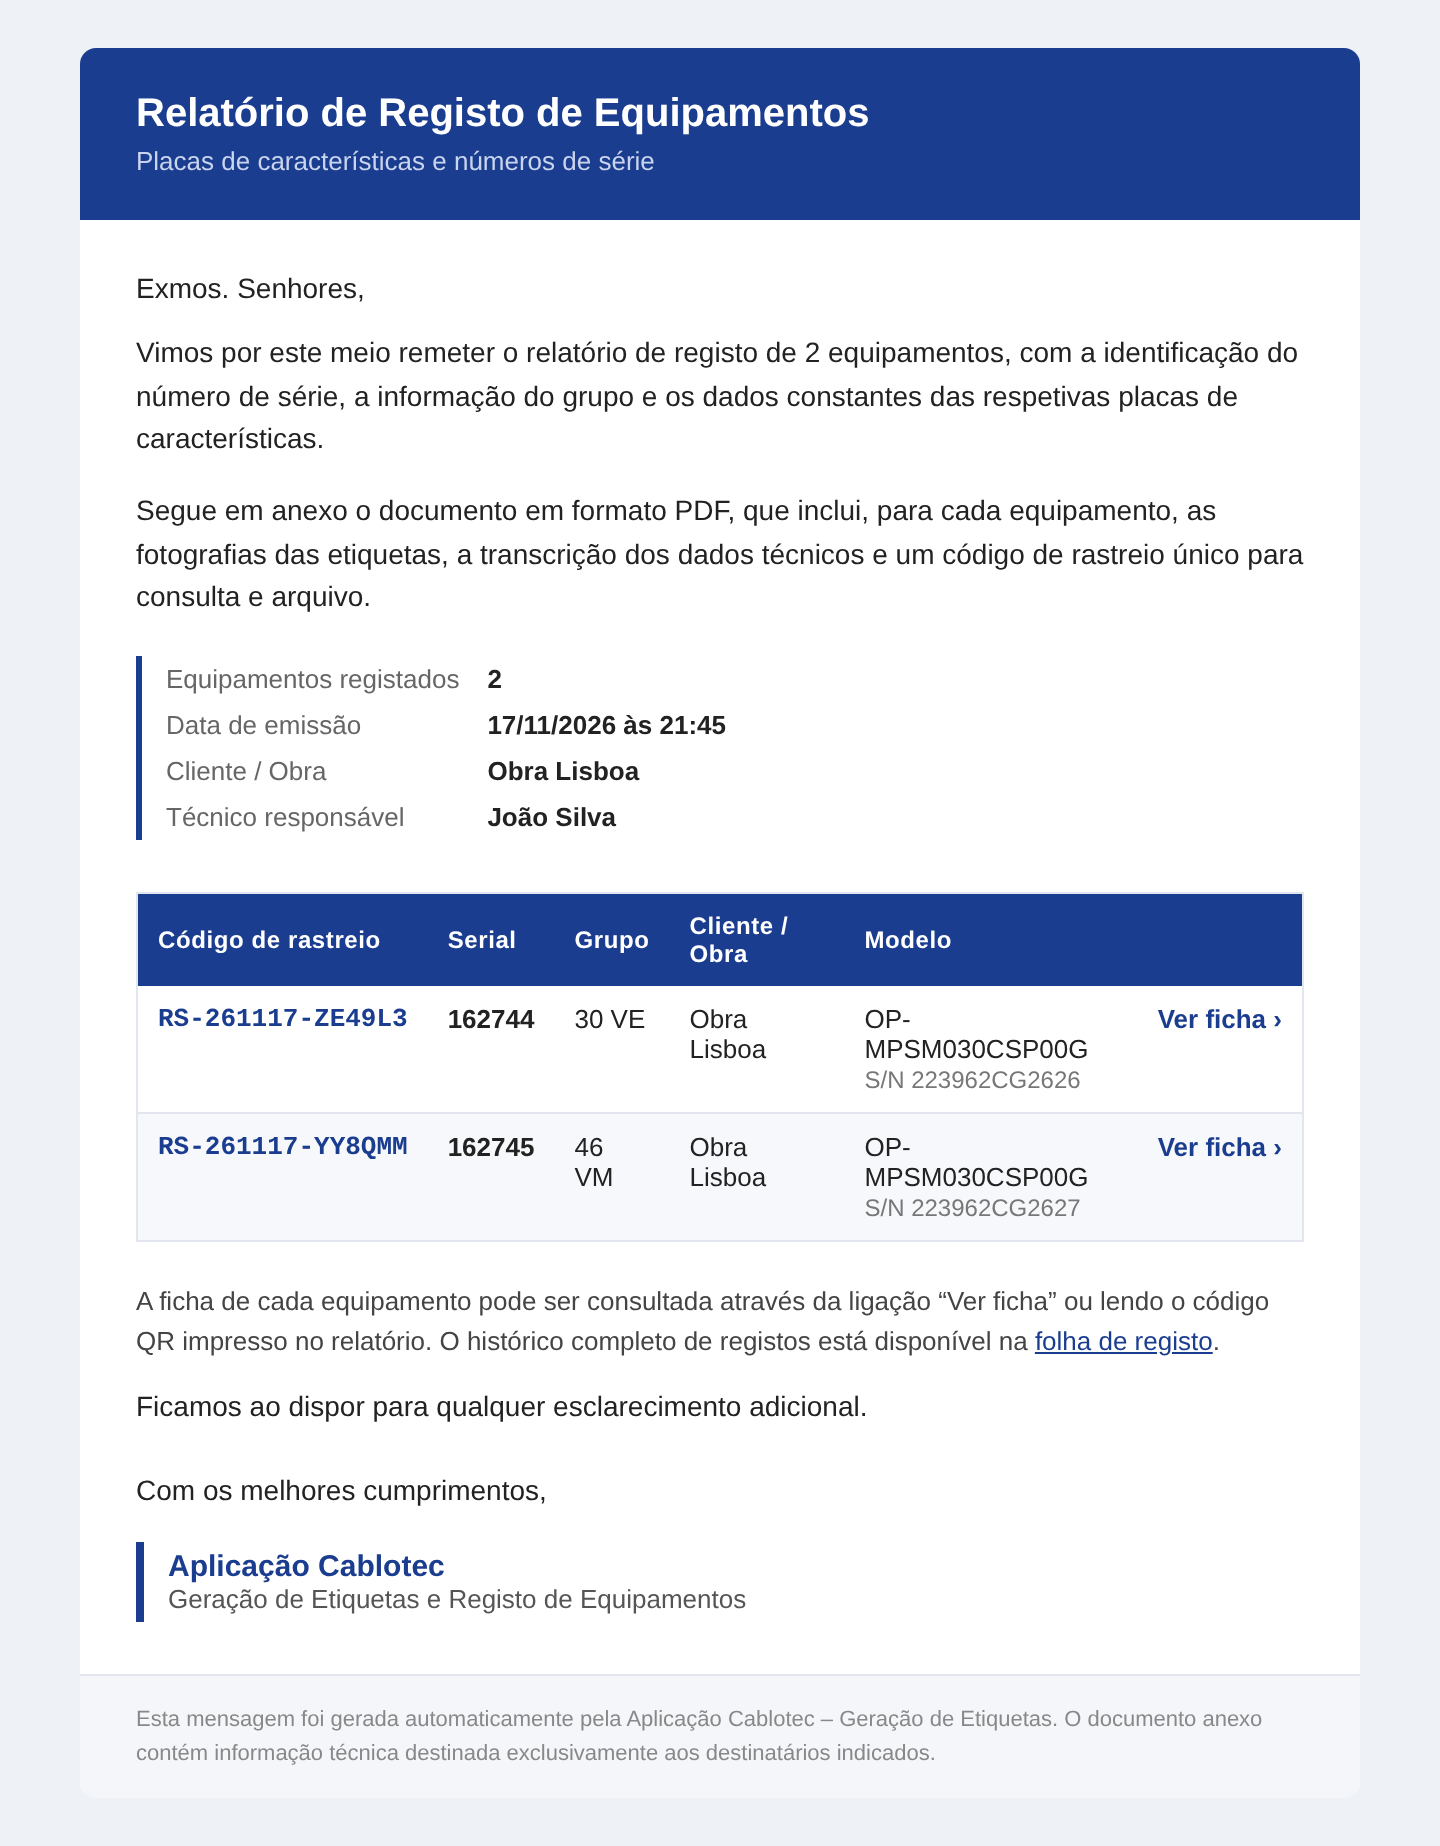
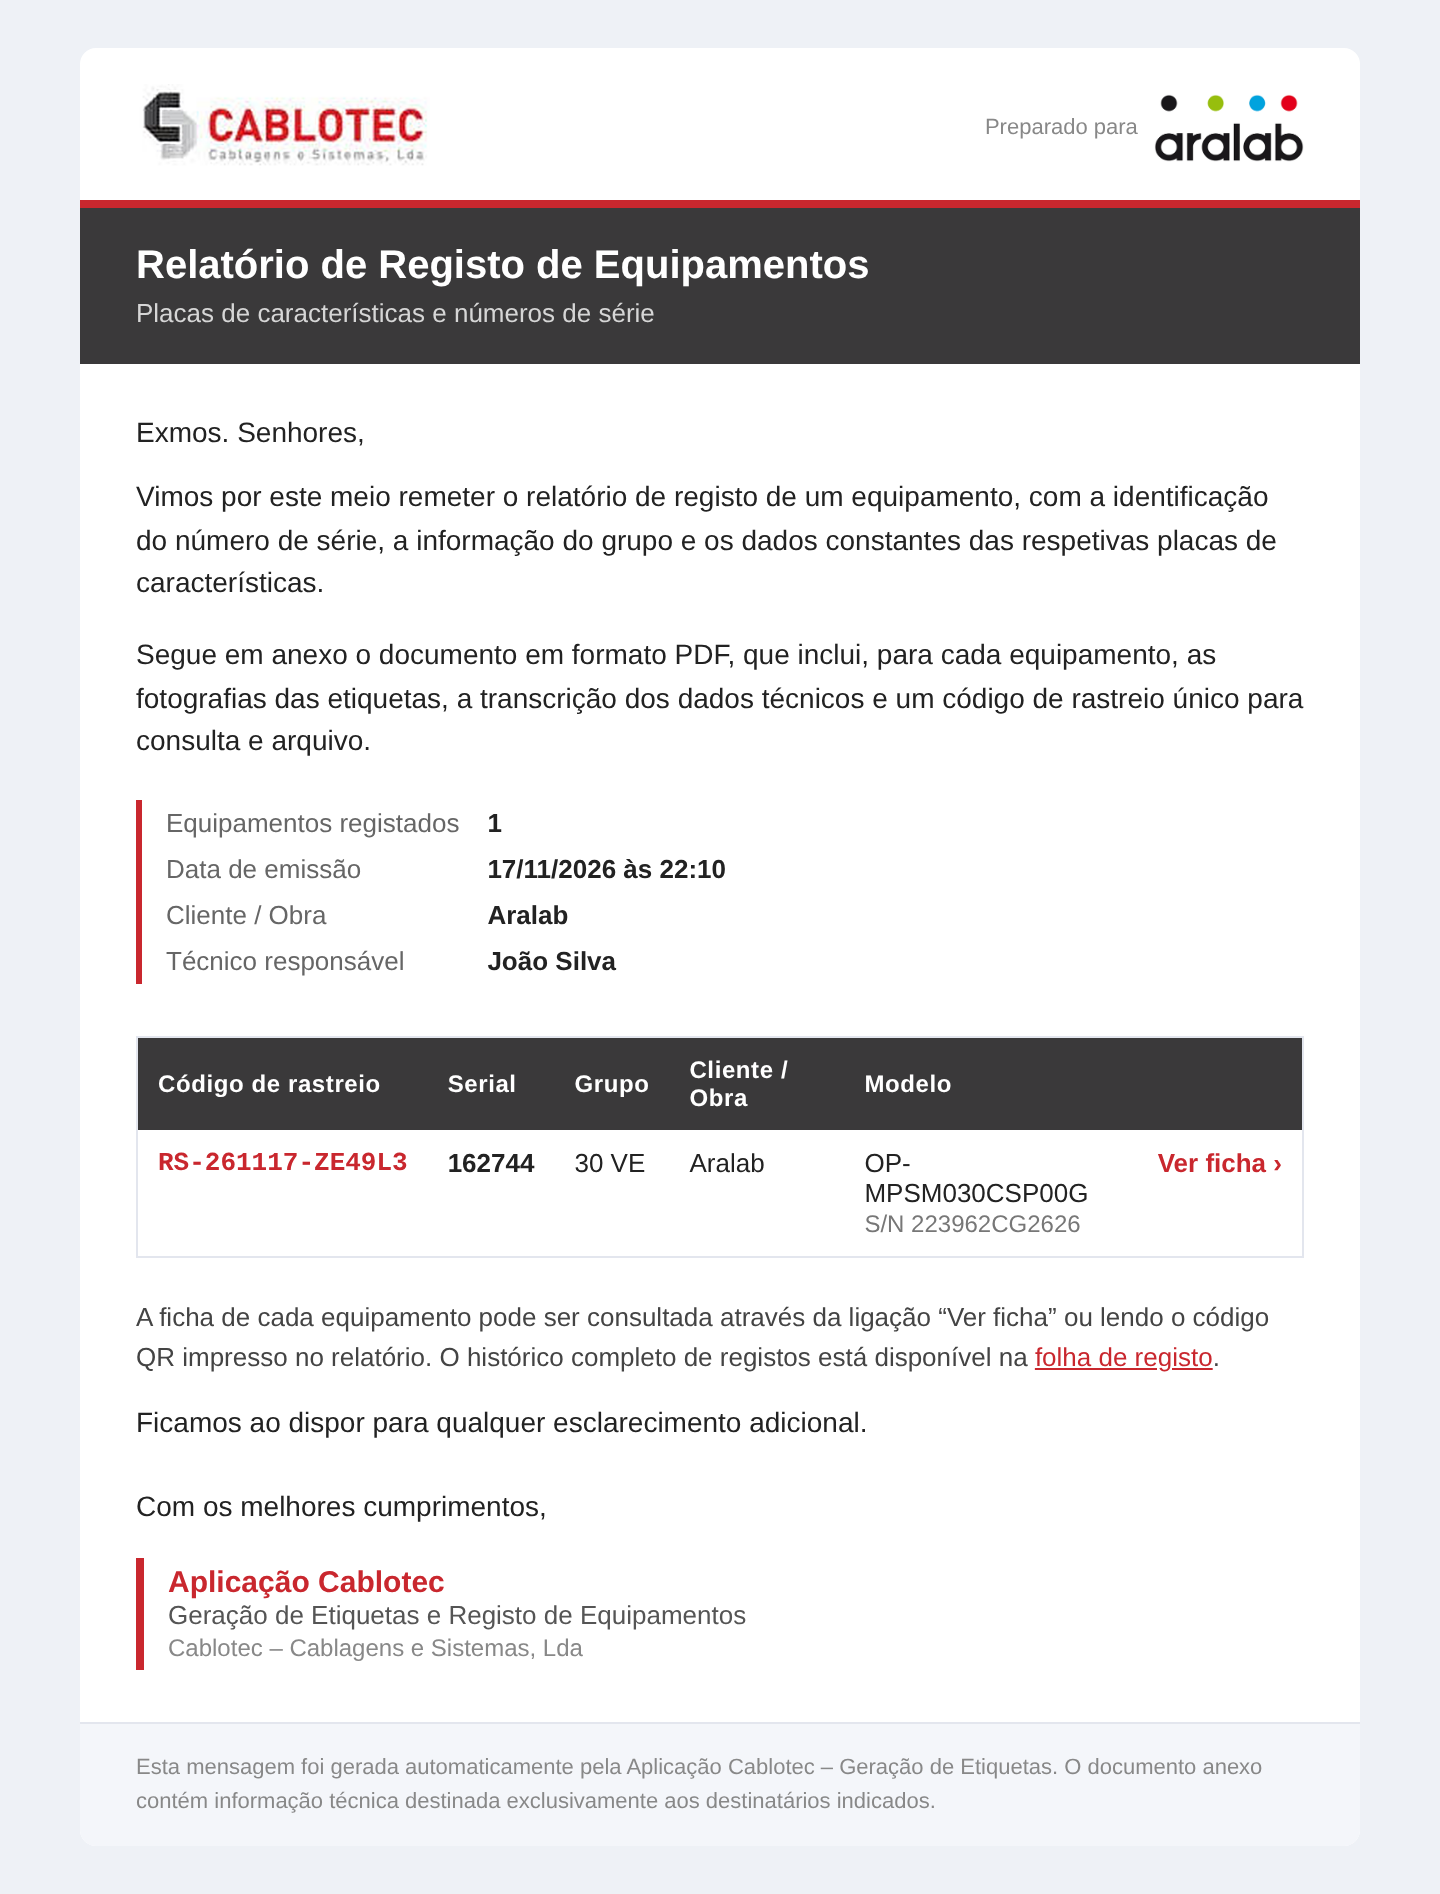
Logótipos Cablotec (emissor) e Aralab (cliente) e cores Cablotec
- PDF: cabeçalho com os dois logótipos nas duas folhas
- email: logótipos no topo ("Preparado para"), cores Cablotec
- ficha do QR, etiquetas QR e app com os logótipos
- app: cliente "Aralab" pré-preenchido; versão 1.3.0

Claude-Session: https://claude.ai/code/session_01V4AqBrqrWquzofq4eoL8LM

Changed region(s): [[0.0312, 0.0, 0.9688, 0.8954], [0.0938, 0.9263, 0.875, 0.9572]]

diff --git a/index.html b/index.html
@@ -3,7 +3,7 @@
 <head>
 <meta charset="utf-8">
 <meta name="viewport" content="width=device-width, initial-scale=1, viewport-fit=cover">
-<meta name="theme-color" content="#1a3d8f">
+<meta name="theme-color" content="#3a393a">
 <meta name="apple-mobile-web-app-capable" content="yes">
 <meta name="mobile-web-app-capable" content="yes">
 <meta name="apple-mobile-web-app-status-bar-style" content="black-translucent">
@@ -13,13 +13,13 @@
 <link rel="icon" href="icons/icon-192.png">
 <title>Registo de Seriais</title>
 <style>
-  :root { --azul:#1a3d8f; --fundo:#f1f3f6; --verde:#1b8a3a; --laranja:#d97706; --vermelho:#c62828; }
+  :root { --azul:#c9272e; --cinza:#3a393a; --fundo:#f1f3f6; --verde:#1b8a3a; --laranja:#d97706; --vermelho:#c62828; }
   * { box-sizing:border-box; -webkit-tap-highlight-color:transparent; }
   html,body { margin:0; }
   section { scroll-margin-bottom:90px; } .botao, input, .moldura { scroll-margin-bottom:90px; }
   body { font-family:-apple-system,Roboto,Arial,sans-serif; background:var(--fundo); color:#222;
          padding-bottom:calc(72px + env(safe-area-inset-bottom)); }
-  header { position:sticky; top:0; z-index:5; background:var(--azul); color:#fff;
+  header { position:sticky; top:0; z-index:5; background:var(--cinza); color:#fff; border-bottom:3px solid var(--azul);
            padding:calc(14px + env(safe-area-inset-top)) 16px 14px; font-size:18px; font-weight:600;
            display:flex; align-items:center; justify-content:space-between; }
   #rede { font-size:12px; font-weight:600; padding:4px 10px; border-radius:20px; background:rgba(255,255,255,.18); }
@@ -104,12 +104,17 @@
   #scanner .barra { background:#111; color:#fff; padding:12px 12px calc(12px + env(safe-area-inset-bottom)); }
   #scanner .barra p { margin:0 0 8px; font-size:14px; }
   #scanner .chip { background:#1f2937; color:#4ade80; }
+  .marcas { display:flex; align-items:center; justify-content:space-between; background:#fff; padding:10px 14px; border-bottom:1px solid #e5e5e5; }
+  .marcas img { height:30px; width:auto; display:block; }
+  .marcas span { display:flex; align-items:center; gap:6px; font-size:10px; color:#888; }
+  .marcas span img { height:24px; }
   .badge { position:absolute; top:4px; left:50%; margin-left:8px; background:var(--laranja); color:#fff; border-radius:10px;
            font-size:11px; padding:1px 6px; display:none; }
 </style>
 </head>
 <body>
 
+<div class="marcas"><img src="icons/logo-cablotec.png" alt="Cablotec"><span>Cliente <img src="icons/logo-aralab.png" alt="Aralab"></span></div>
 <header><span id="titulo">📷 Registar serial</span><span id="rede">online</span></header>
 
 <!-- ============ REGISTAR ============ -->
@@ -270,7 +275,7 @@
 </nav>
 
 <script>
-var VERSAO = '1.2.1';
+var VERSAO = '1.3.0';
 var cfg = { url: localStorage.getItem('url') || '', pin: localStorage.getItem('pin') || '' };
 var fotos = { 1: null, 2: null };
 var abaAtual = 'pendentes', cacheLista = null, aEnviarFila = false;
@@ -456,6 +461,7 @@ function gravar(serial, grupo, bt) {
   var item = { id: Date.now(), serial: serial, grupo: grupo, foto1: fotos[1], foto2: fotos[2],
                extras: extras, codigos: codigos.slice(), criado: new Date().toLocaleString('pt-PT') };
   lembrarGrupo(grupo); lembrar('clientes', extras.cliente); desenharClientes();
+  if (extras.cliente) localStorage.setItem('ultimoCliente', extras.cliente);
 
   // 1.º guarda no telemóvel (nunca se perde), depois tenta enviar
   filaGuardar(item).then(function () {
@@ -480,7 +486,7 @@ function mostrarResultado(r, enviado) {
   });
   el('resultado').innerHTML =
     '<div class="serial">' + esc(r.serial) + '</div><div class="grupo">' + esc(r.grupo || '') + '</div>' +
-    (r.rastreio ? '<p class="dica" style="font-size:14px">Código de rastreio: <b style="font-family:monospace;color:#1a3d8f">' + esc(r.rastreio) + '</b></p>' : '') +
+    (r.rastreio ? '<p class="dica" style="font-size:14px">Código de rastreio: <b style="font-family:monospace;color:#c9272e">' + esc(r.rastreio) + '</b></p>' : '') +
     (enviado ? '<p>✅ Enviado para o Google Drive (' + r.fotos + ' foto(s)).</p>'
              : '<p><span class="tag">Sem rede</span> Guardado no telemóvel. É enviado automaticamente quando houver ligação.</p>') +
     (linhas ? (enviado && r.fonte ? '<p class="dica">Lidos por ' + esc(r.fonte) + '. Toque em “Rever” para confirmar ou corrigir.</p>' : '') +
@@ -673,7 +679,7 @@ function desenharEditar(r) {
   edAtual = r;
   var x = r.extras || {};
   el('edCab').innerHTML = '<div class="serial">' + esc(r.serial) + '</div><div class="grupo">' + esc(r.grupo || '') + '</div>' +
-    (r.rastreio ? '<p class="dica" style="font-size:14px">Código de rastreio: <b style="font-family:monospace;color:#1a3d8f">' + esc(r.rastreio) + '</b></p>' : '') +
+    (r.rastreio ? '<p class="dica" style="font-size:14px">Código de rastreio: <b style="font-family:monospace;color:#c9272e">' + esc(r.rastreio) + '</b></p>' : '') +
     (r.enviado ? '<p class="dica">Já enviado: a correção fica na ficha e na folha de cálculo.</p>' : '');
   el('edCliente').value = x.cliente || ''; el('edLocal').value = x.local || '';
   el('edTecnico').value = x.tecnico || ''; el('edObs').value = x.obs || '';
@@ -817,6 +823,7 @@ if ('serviceWorker' in navigator) navigator.serviceWorker.register('sw.js');
 /* ---------------- Arranque ---------------- */
 el('versao').textContent = VERSAO;
 el('cfgUrl').value = cfg.url; el('cfgPin').value = cfg.pin; el('cfgTecnico').value = localStorage.getItem('tecnico') || '';
+if (!el('cliente').value) el('cliente').value = localStorage.getItem('ultimoCliente') || 'Aralab';
 desenharGrupos(); desenharClientes(); desenharTecnico(); desenharCodigos(); atualizarRede(); atualizarBadge();
 mostrar('registar');
 </script>

diff --git a/sw.js b/sw.js
@@ -1,9 +1,9 @@
 // Guarda a aplicação no telemóvel para abrir mesmo sem rede.
 // Ao mudar algum ficheiro, aumentar a versão abaixo.
-const CACHE = 'seriais-v1.2.1';
+const CACHE = 'seriais-v1.3.0';
 const FICHEIROS = ['./', './index.html', './manifest.webmanifest',
   './icons/icon-192.png', './icons/icon-512.png', './icons/apple-touch-icon.png',
-  './vendor/zxing.min.js'];
+  './vendor/zxing.min.js', './icons/logo-cablotec.png', './icons/logo-aralab.png'];
 
 self.addEventListener('install', e => {
   e.waitUntil(caches.open(CACHE).then(c => c.addAll(FICHEIROS)).then(() => self.skipWaiting()));
